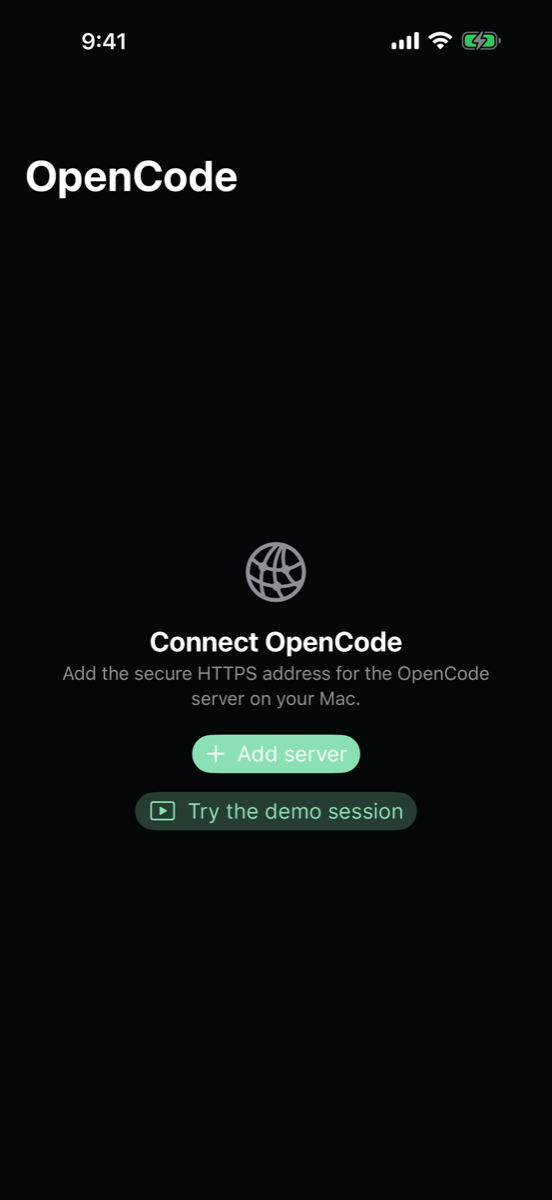
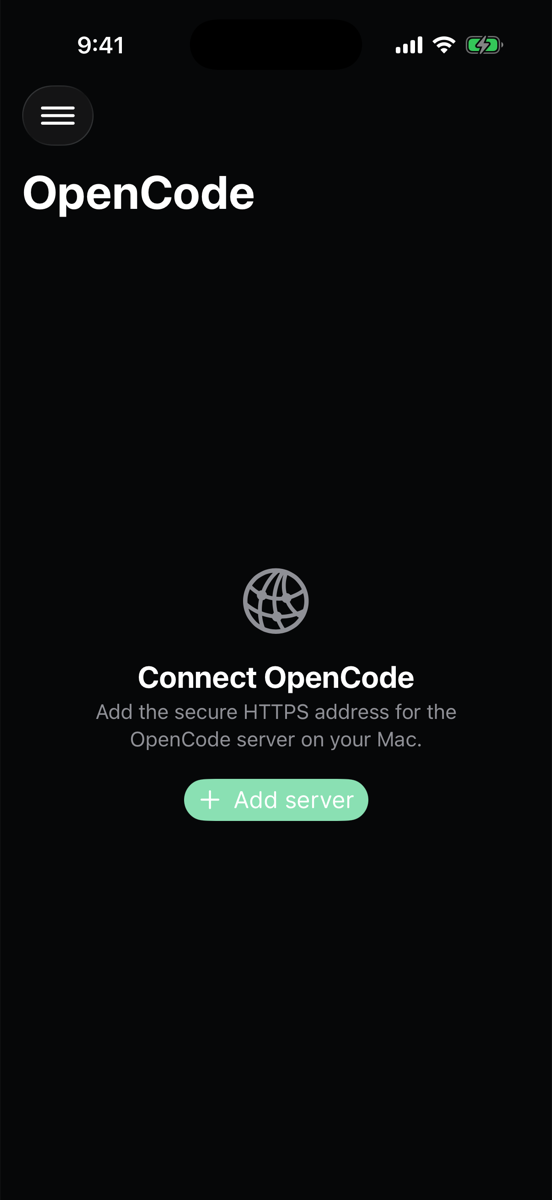
docs: demo-free screenshots — connect (from the open-source build), add server, session diff
The demo session was App-Review-only and isn't part of the product.

diff --git a/README.md b/README.md
@@ -7,10 +7,9 @@ Your machine does the work. Your phone drives it.
 [**Download on the App Store**](https://apps.apple.com/us/app/byot/id6782403920) · [byot.app](https://byot.app)
 
 <p align="center">
-  <img src="docs/screenshots/03-streaming-session-with-tools.png" alt="A live turn streaming: prompt, reasoning, a completed shell tool call, and assistant text" width="24%">
-  <img src="docs/screenshots/04-approve-tool-permissions.png" alt="A permission card for an edit: reject, allow once, or always allow" width="24%">
-  <img src="docs/screenshots/06-review-session-diff.png" alt="Reviewing the session diff on the phone" width="24%">
-  <img src="docs/screenshots/01-connect-your-opencode-server.png" alt="Connect screen: add the HTTPS address of your OpenCode server, or try the demo session" width="24%">
+  <img src="docs/screenshots/01-connect-your-opencode-server.png" alt="Connect screen: add the HTTPS address of your OpenCode server" width="30%">
+  <img src="docs/screenshots/02-add-server-details.png" alt="Adding a server: name, HTTPS URL over Tailscale, credentials, and a connection test" width="30%">
+  <img src="docs/screenshots/06-review-session-diff.png" alt="Reviewing the session diff on the phone" width="30%">
 </p>
 
 ## "Wait, what are you selling me?"
